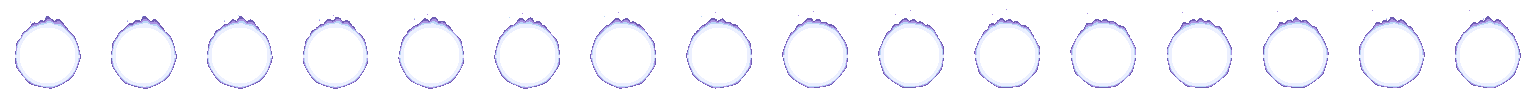
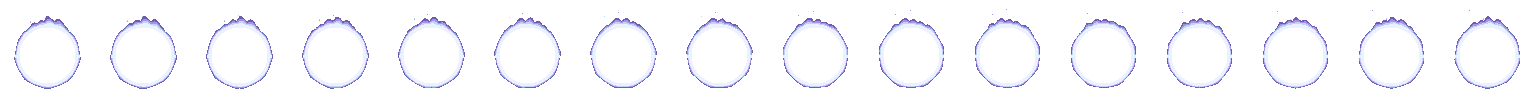
C.491 붕옥 불꽃 테: 물결이 아래에서 양옆으로 올라감
Claude-Session: https://claude.ai/code/session_01KpWyHvBBn8A5gZku3YJCXb

diff --git a/src/version.ts b/src/version.ts
@@ -3,7 +3,7 @@
 import { BALANCE_VERSION } from './config/balance';
 
 /** 패치 이름 = docs/dev-log.md 의 최신 소절 번호. 패치마다 갱신한다 (CLAUDE.md) */
-export const PATCH_LABEL = 'C.490';
+export const PATCH_LABEL = 'C.491';
 /** 단계 번호 = 기획서(docs/GDD.md) 13장 로드맵 표의 단계. PATCH_LABEL 과 같이 패치마다 갱신한다 */
 export const STAGE_LABEL = 'S-23';
 

diff --git a/docs/art-samples/hogyoku-flame/flame.py b/docs/art-samples/hogyoku-flame/flame.py
@@ -1,0 +1,90 @@
+# 64x64 구슬(orb_64.png) 뒤에 떠 있는 일렁이는 불꽃 — 구슬은 빼고 불꽃만, 8프레임 반복.
+# 캔버스 96x96, 구슬 자리 = 가운데 아래쪽(구슬 64칸을 (16,24)에 놓으면 딱 맞음). 불꽃은 위로 더 길게 솟는다.
+# 색은 구슬과 같은 무리(보라 테두리 → 연보라 → 하늘 → 옅은 심지) 4톤, 외곽선 없음(빛 이펙트).
+import math
+import numpy as np
+from PIL import Image
+
+import os
+CALM = os.environ.get('CALM') == '1'      # 잔잔한 불꽃 (각성 전): 낮고 느리게 일렁임
+OUT = 'flame_calm' if CALM else 'flame'
+os.makedirs(OUT, exist_ok=True)
+W = H = 96
+FRAMES, MS = 16, (90 if CALM else 60)
+OX, OY = 16, 24                       # 구슬 64x64 를 놓을 왼위 자리
+CX, CY, R = OX + 31.5, OY + 31.5, 30.5  # 구슬 중심·반지름(외곽 포함)
+TONES = [(0.80, (236, 240, 255)), (0.58, (186, 214, 248)), (0.38, (170, 146, 226)), (0.20, (110, 92, 180))]
+
+TONES = [(0.86, (236, 240, 255)), (0.66, (186, 214, 248)), (0.44, (170, 146, 226)), (0.22, (110, 92, 180))]
+EMBERS = [(30, 0.0), (44, 0.35), (58, 0.7), (66, 0.15), (38, 0.55), (52, 0.85)]   # 불씨: x 자리, 시작 위상
+
+TONGUES = [  # 위로 솟는 불꽃 혀: (구슬 중심 기준 x, 폭, 높이, 흔들림 위상)
+    (-24, 4.5, 12, 0.0), (-16, 5.0, 19, 1.7), (-7, 5.5, 25, 3.1), (2, 5.0, 28, 4.4),
+    (11, 5.5, 23, 0.9), (19, 5.0, 17, 2.6), (26, 4.0, 11, 5.2),
+]
+
+def frame(t):
+    img = np.zeros((H, W, 4), np.uint8)
+    ph = 2 * math.pi * t                                   # 한 바퀴 = 반복 한 번 (이음매 없음)
+    def height(xs):
+        h = 0.0
+        for c, w, hh, p in TONGUES:
+            cc = CX + c + (0.8 if CALM else 1.6) * math.sin(ph + p)           # 혀가 좌우로 흔들림
+            amp = hh * (0.78 + 0.22 * math.sin((1 if CALM else 2) * ph + p * 1.7))   # 혀 길이가 오르내림
+            if CALM: amp *= 0.36                                # 잔잔: 혀가 훨씬 낮다
+            h = max(h, amp * math.exp(-((xs - cc) / w) ** 2))
+        return h
+    for y in range(H):
+        for x in range(W):
+            dx, dy = x + 0.5 - CX, y + 0.5 - CY
+            d = math.hypot(dx, dy)
+            if d < R - 2.5: continue                       # 구슬에 가려지는 안쪽은 비운다
+            th = math.atan2(dy, dx)
+            # 1) 구슬을 감싸는 얇은 불꽃 테 (아래·옆)
+            # 테의 물결은 한 방향으로 도는 게 아니라 아래(6시)에서 양옆을 타고 위로 올라간다 (사용자 2026-11-19 "아래 6시방향에서 시작해서 양쪽으로 올라갔다가 위에서 불타는게 맞지않나")
+            up = abs(math.atan2(dx, dy))                    # 아래(6시) 0 → 양옆 π/2 → 위(12시) π, 좌우 같은 값
+            ring = (2.4 + 1.2 * (0.5 + 0.5 * math.sin(9 * up - ph + 1.3)) ** 2) if CALM else (3.5 + 2.5 * (0.5 + 0.5 * math.sin(13 * up - 2 * ph + 1.3)) ** 2)
+            k = 1 - (d - R) / ring
+            # 2) 위로 솟는 혀: 위로 갈수록 좌우로 일렁인다
+            lift = max(0.0, CY - (y + 0.5))
+            xs = x + 0.5 - (0.8 if CALM else 1.8) * math.sin(0.33 * y + (1 if CALM else 2) * ph) * min(1.0, lift / R)
+            ddx = xs - CX
+            if abs(ddx) < R + 2:
+                surf = CY - math.sqrt(max(0.0, R * R - ddx * ddx))   # 그 열의 구슬 윗면
+                hgt = (2 if CALM else 3) + height(xs)
+                above = surf - (y + 0.5)
+                if -2 <= above <= hgt:
+                    k = max(k, 1 - max(0.0, above) / hgt)
+            k += (0.03 if CALM else 0.06) * math.sin(0.5 * y + (1 if CALM else 2) * ph + 0.3 * x)
+            if d < R: k = max(k, 0.95)                     # 구슬 가장자리 바로 밑은 밝게 (틈 방지)
+            for th_k, col in TONES:
+                if k >= th_k:
+                    img[y, x] = (*col, 255); break
+    # 불씨: 위로 떠오르며 작아지다 사라진다 (프레임 반복에 맞춰 이음매 없이)
+    for ex, off in (EMBERS[:2] if CALM else EMBERS):
+        p = (t + off) % 1.0
+        y = int(round(CY - R - 4 - p * (12 if CALM else 22)))
+        x = int(round(ex + 2 * math.sin(2 * math.pi * (p * 2 + off))))
+        col = TONES[1][1] if p < 0.5 else TONES[2][1]
+        if 0 <= y < H and 0 <= x < W and img[y, x, 3] == 0:
+            img[y, x] = (*col, 255)
+            if p < 0.3 and y + 1 < H and img[y + 1, x, 3] == 0: img[y + 1, x] = (*TONES[2][1], 255)
+    return Image.fromarray(img)
+
+frames = [frame(i / FRAMES) for i in range(FRAMES)]
+orb = Image.open('orb_64.png')
+sheet = Image.new('RGBA', (W * FRAMES, H))
+prev_fire, prev_both = [], []
+for i, f in enumerate(frames):
+    f.save(f'{OUT}/flame-{i + 1}.png'); sheet.paste(f, (W * i, 0))
+    both = f.copy(); both.alpha_composite(orb, (OX, OY)); both.save(f'{OUT}/with-orb-{i + 1}.png')
+    for lst, im in ((prev_fire, f), (prev_both, both)):
+        bg = Image.new('RGBA', (W, H), (24, 22, 34, 255)); bg.alpha_composite(im)
+        lst.append(bg.convert('RGB').resize((W * 4, H * 4), Image.NEAREST))
+sheet.save(OUT + '/flame-sheet.png')
+prev_fire[0].save(OUT + '/flame_x4.gif', save_all=True, append_images=prev_fire[1:], duration=MS, loop=0)
+prev_both[0].save(OUT + '/with-orb_x4.gif', save_all=True, append_images=prev_both[1:], duration=MS, loop=0)
+m = Image.new("RGB", (W * 4 * 4, H * 4 * (FRAMES // 4)))
+for i in range(FRAMES): m.paste(prev_both[i], ((i % 4) * W * 4, (i // 4) * H * 4))
+m.save(OUT + '/check.png')
+print('ok')

diff --git a/docs/dev-log.md b/docs/dev-log.md
@@ -4251,3 +4251,8 @@ C.0 ~ C.120 은 `docs/dev-log-archive.md` 로 옮겼다(C.0~C.59 2026-10-20, C.6
 ## C.490 — 걷는 펫 다리 끊김 고침 (S-23)
 - 사용자 2026-11-19 "강아지랑 고양이 걸을 때 다리 짤리잖아;;; 체크해서 고쳐": 원인 = `pet-walk.py` 가 몸만 1칸 들썩이고 다리는 그대로 둬서, 몸이 올라간 장마다 몸과 다리 사이 한 줄이 비었다(요루이치·쿠카푸로 걷기 24장 중 절반). 다리 맨 윗줄을 몸이 올라간 만큼 위로 이어 붙임.
 - 확인: 두 그림 24장 전부 불투명 덩어리가 하나(끊긴 장 0). `public/art/pet-yoruichi-cat-walk.webp` · `pet-kukkapuro-walk.webp` 다시 뽑음. 수치·세이브·기획 변경 없음.
+
+## C.491 — 붕옥 불꽃 테: 한 방향으로 돌던 물결 → 아래에서 양옆으로 올라감 (S-23)
+- 사용자 2026-11-19 "붕옥 주변 불꽃이 시계방향으로 도는데, 이게 불꽃이면 아래 6시방향에서 시작해서 양쪽으로 올라갔다가 위에서 불타는게 맞지않나? 체크 ㄱㄱ".
+- 확인: 맞다 — 구슬을 감싸는 얇은 불꽃 테의 물결을 각도 한 방향(`sin(13θ − 2φ)`)으로 흘려서 시계 방향으로 도는 것처럼 보였다. 위로 솟는 혀·불씨는 원래 위로만 움직인다.
+- 고침: 물결의 기준을 '아래(6시)에서 잰 각도'(좌우 같은 값)로 바꿔 아래에서 생겨 양옆을 타고 위로 올라가게. 100% 불꽃 `public/art/hogyoku-flame.png` · 80% 잔잔한 불꽃 `hogyoku-flame-calm.png` 둘 다 다시 뽑음(1536×96, 16장 그대로 — 화면 코드·박자 변경 없음). 만드는 스크립트를 `docs/art-samples/hogyoku-flame/flame.py` 에 보관.
